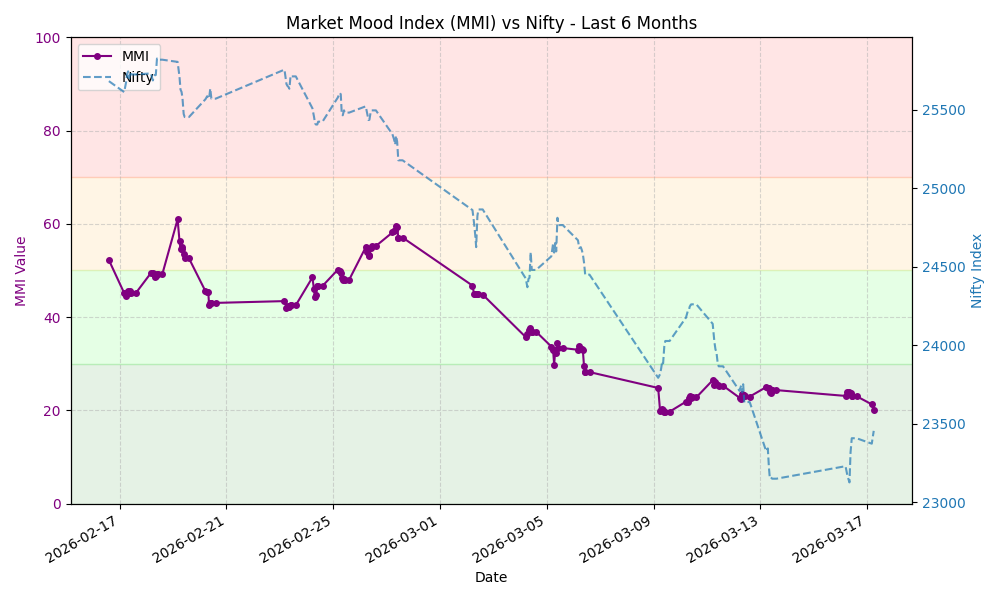
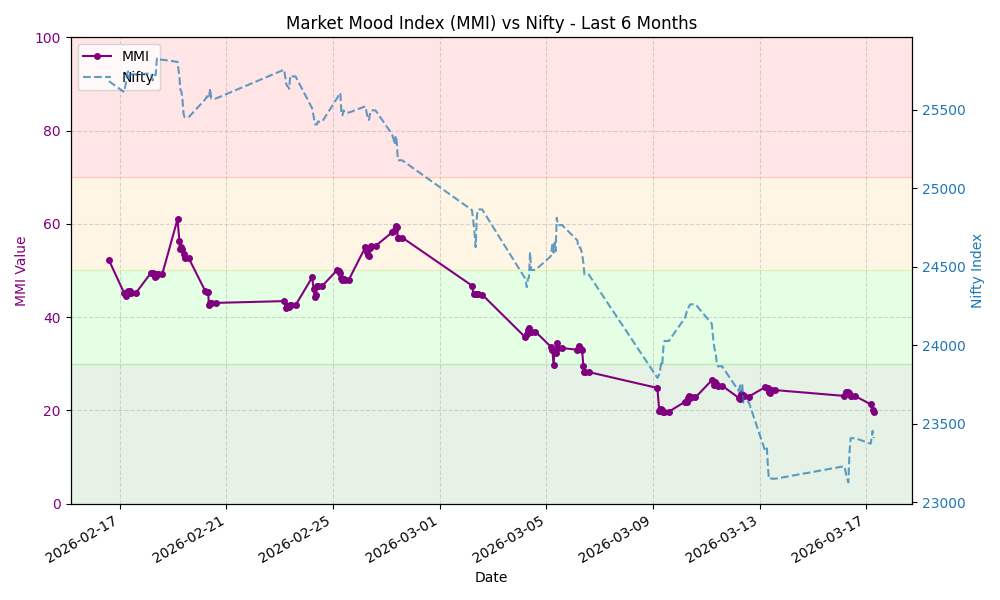
Update MMI data and chart

diff --git a/README.md b/README.md
@@ -7,8 +7,8 @@ This repository automatically fetches the MMI value, stores the history, and gen
 
 ## Latest MMI Value
 
-**20.03** - **Extreme Fear**
-<small>Last Updated: 2026-03-17 05:48 UTC</small>
+**19.75** - **Extreme Fear**
+<small>Last Updated: 2026-03-17 06:48 UTC</small>
 
 ## MMI Trend (Last 30 Days)
 
